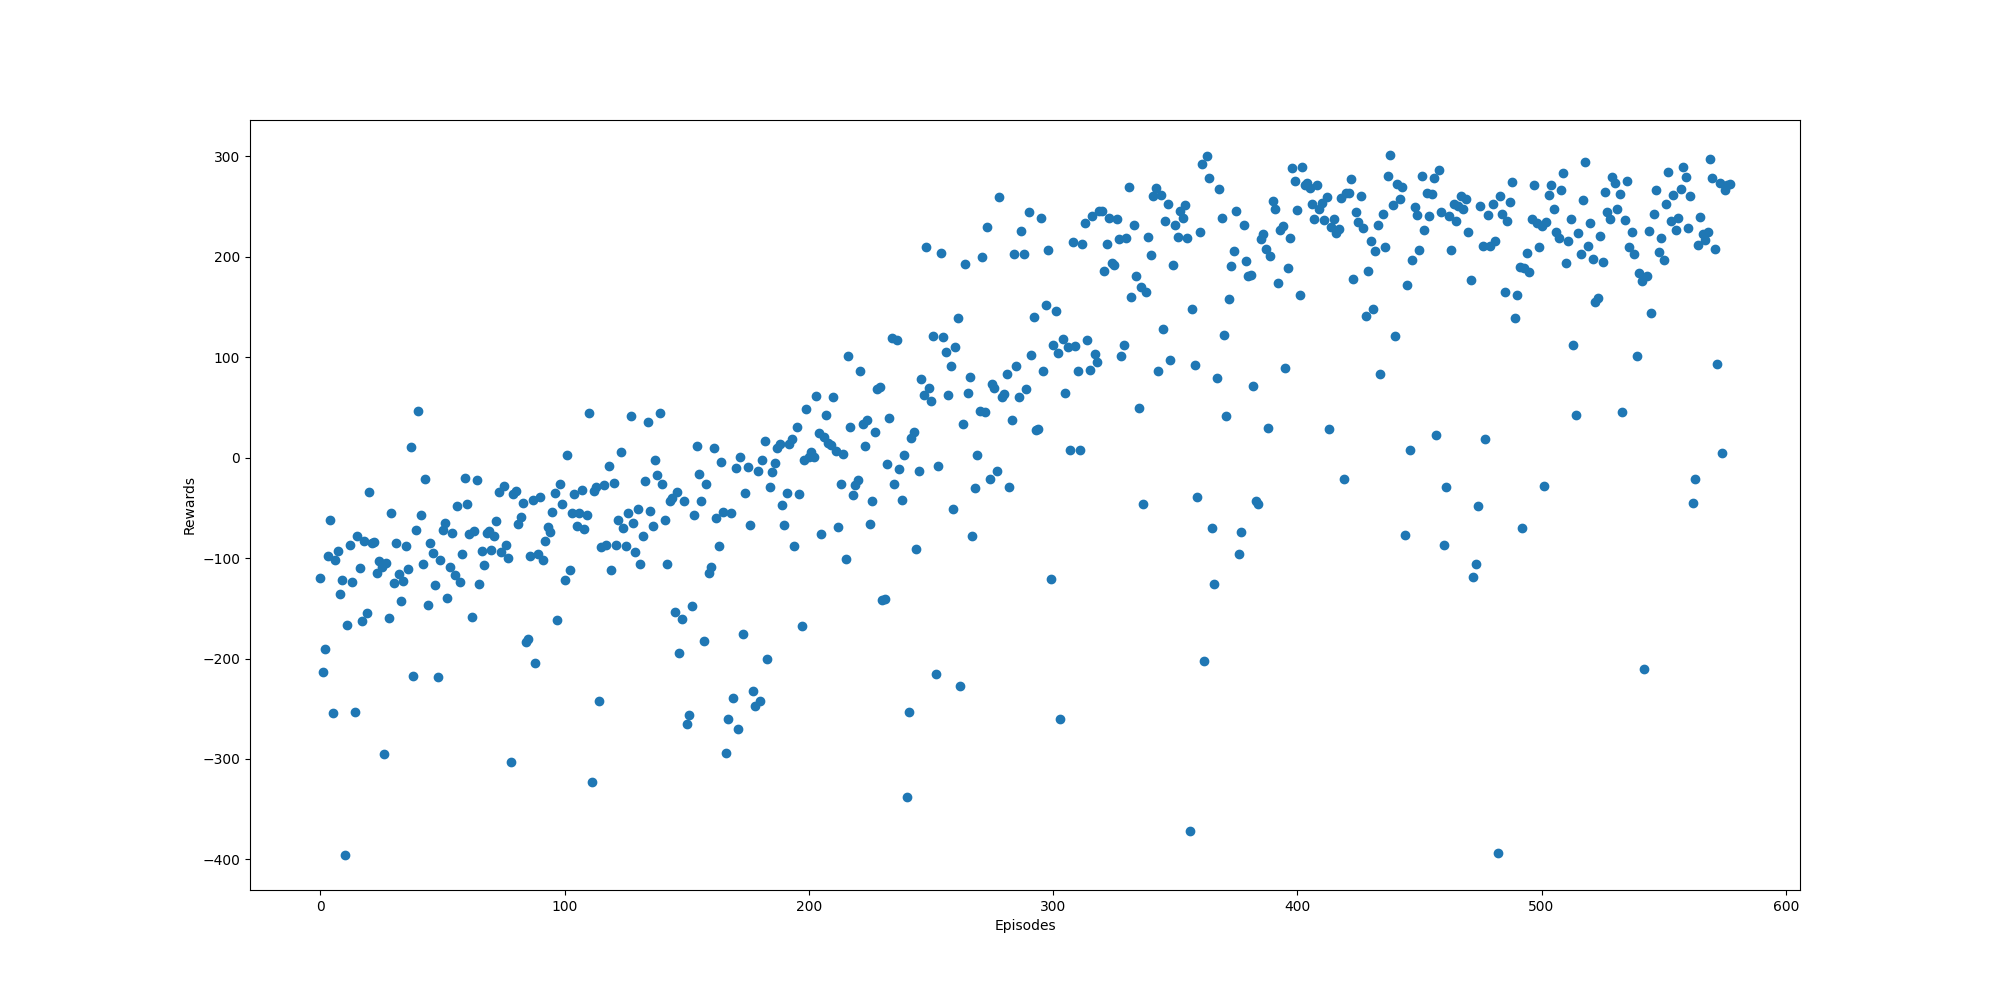
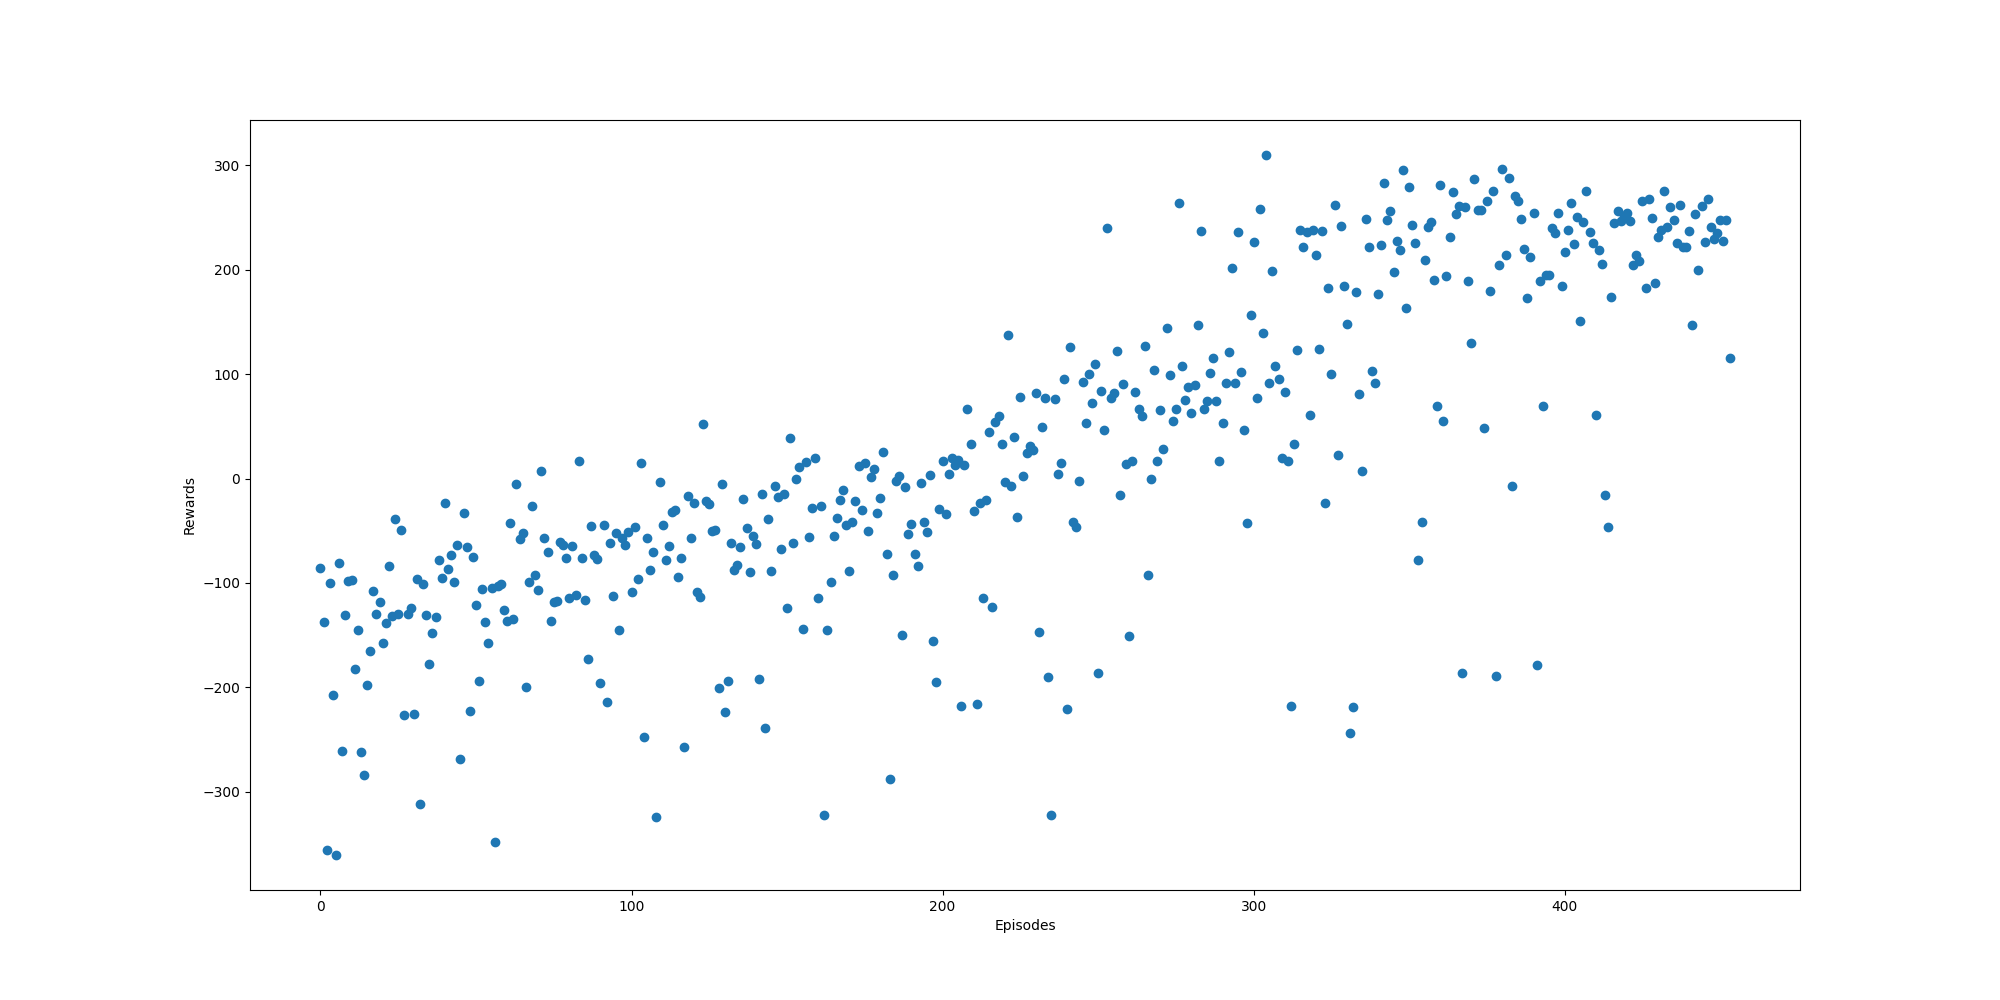
merge fix

diff --git a/prioritizedExperienceReplay.py b/prioritizedExperienceReplay.py
@@ -69,8 +69,8 @@ class SumTree:
 class Memory:  # stored as ( s, a, r, s_ ) in SumTree
     e = 0.01
     a = 0.6
-    beta = 0.4
-    beta_increment_per_sampling = 0.001
+    beta = 1 #0.4
+    beta_increment_per_sampling = 0 #0.001
 
     def __init__(self, capacity):
         self.tree = SumTree(capacity)
